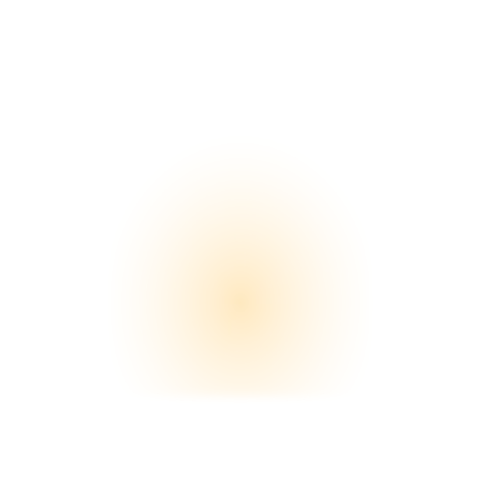
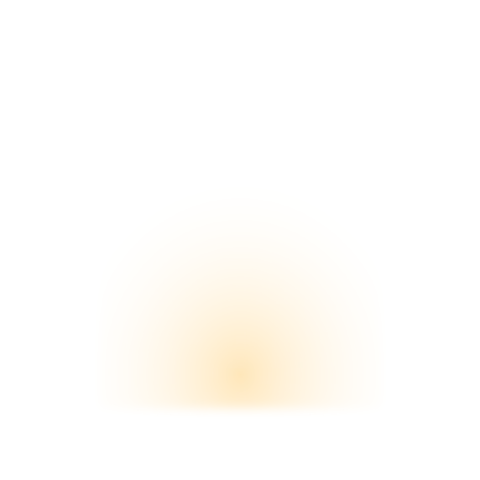
Печь: тёмное нутро, кружка хорошо видна; крупнее карточка заказа
- внутри печи темно, жар только снизу — красная кружка читается чётко
- кружка без пара и крупнее, стоит на полке
- карточка индивидуального заказа больше на ПК и на телефоне

Claude-Session: https://claude.ai/code/session_015keSwDSBN4uMjJvF6yDQUW

Changed region(s): [[0.375, 0.75, 0.625, 0.875], [0.4375, 0.5, 0.5625, 0.6562]]

diff --git a/style.css b/style.css
@@ -54,7 +54,11 @@ header,section,footer,#contacts{scroll-margin-top:68px}
 .sr-only{position:absolute;width:1px;height:1px;padding:0;margin:-1px;overflow:hidden;clip:rect(0,0,0,0);white-space:nowrap;border:0}
 .ship{grid-column:2}
 /* Две карточки под кружкой: на ПК рядом, на телефоне компактными строками */
-.duo{display:grid;grid-template-columns:repeat(2,minmax(0,300px));justify-content:center;gap:40px 48px;margin-top:64px}
+.duo{display:grid;grid-template-columns:minmax(0,280px) minmax(0,360px);align-items:center;justify-content:center;gap:40px 48px;margin-top:64px}
+.duo-custom .duo-frame img{width:112px}
+.duo-custom .duo-tag{font-size:22px}
+.duo-custom .duo-title{font-size:32px}
+.duo-custom .duo-sub{font-size:16px}
 .duo-card{display:flex;flex-direction:column;align-items:center;text-align:center;color:#3A2A22;text-decoration:none}
 .duo-frame{width:100%;aspect-ratio:1 / 1;border:1.5px dashed #C5B286;box-sizing:border-box;background:#E6EBF3;display:flex;flex-direction:column;align-items:center;justify-content:center;gap:12px}
 .duo-frame img{width:84px;height:auto}
@@ -117,6 +121,12 @@ header,section,footer,#contacts{scroll-margin-top:60px}
 .sticker-hide-sm{display:none}
 .ship{grid-column:1 / -1}
 .duo{grid-template-columns:1fr;gap:14px;margin-top:40px}
+.duo-custom{padding:16px}
+.duo-custom .duo-frame{width:132px}
+.duo-custom .duo-frame img{width:66px}
+.duo-custom .duo-tag{font-size:14px}
+.duo-custom .duo-title{font-size:25px}
+.duo-custom .duo-sub{font-size:15px}
 .duo-card{flex-direction:row;align-items:center;text-align:left;gap:16px;background:#FFFFFF;border:1px solid #DCE2EC;padding:12px}
 .duo-frame{width:104px;flex:none;gap:4px}
 .duo-frame img{width:52px}

diff --git a/index.html b/index.html
@@ -179,7 +179,7 @@
           <p class="duo-sub">[когда появится]</p>
         </div>
       </article>
-      <a class="duo-card" href="https://t.me/dvdkna" target="_blank" rel="noopener">
+      <a class="duo-card duo-custom" href="https://t.me/dvdkna" target="_blank" rel="noopener">
         <span class="duo-frame">
           <img decoding="async" src="assets/mug-drawing.webp" alt="" aria-hidden="true">
           <span class="duo-tag">твоя кружка</span>
